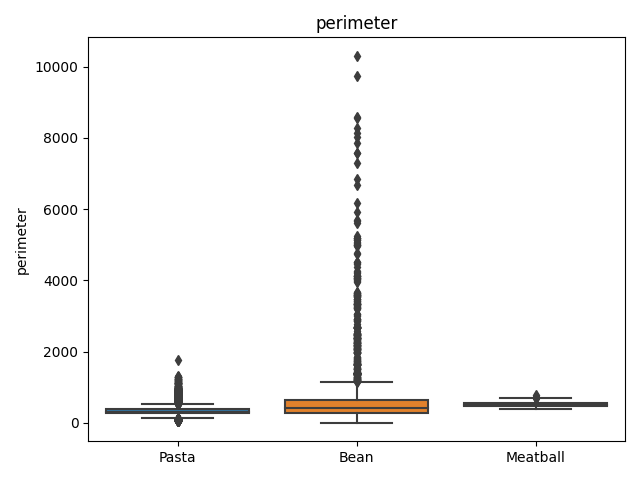
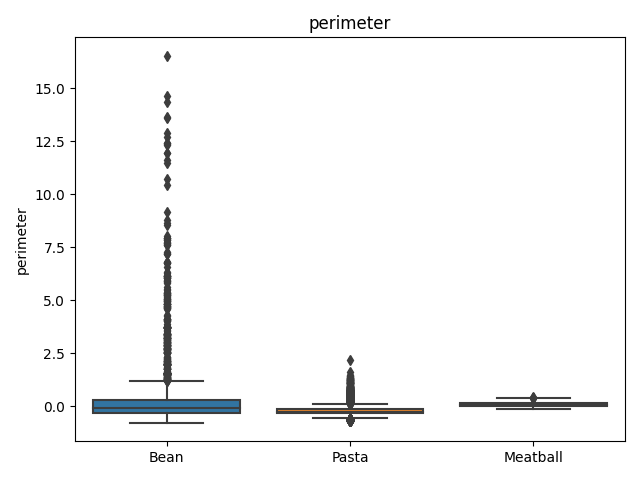
New feature diagrams

diff --git a/Machine_Learning/Feature_explore.py b/Machine_Learning/Feature_explore.py
@@ -21,10 +21,10 @@ if __name__ == "__main__":
     # partition the data into training and testing splits using 75% of
     # the data for training and the remaining 25% for testing
     (trainX, testX, trainY, testY) = train_test_split(foods.data, coded_labels,
-	test_size=0.25, stratify=foods.target)
+	test_size=0.20, stratify=foods.target)
 
-    # # Data preparation (note that a pipeline  would help here)
-    # trainX = StandardScaler().fit_transform(trainX)
+    # Data preparation (note that a pipeline  would help here)
+    trainX = StandardScaler().fit_transform(trainX)
 
     # show target distribution
     ax = sns.countplot(x=trainY, color="skyblue")
@@ -53,7 +53,7 @@ if __name__ == "__main__":
     a, b = 0, 1
     fig1 = plt.figure()
     ax1 = sns.scatterplot(trainX[:,a], trainX[:,b], hue=le.inverse_transform(trainY))
-    ax1.set_title("Example of feature scatter plot")
+    ax1.set_title("Scatter plot Area Perimeter")
     ax1.set_xlabel(foods.feature_names[a])
     ax1.set_ylabel(foods.feature_names[b])
     plt.tight_layout()
@@ -61,15 +61,59 @@ if __name__ == "__main__":
     plt.savefig('scatter_plot_area_perimeter.png')
 
     # show scatter plot of features a and b
-    a, b = 1, 2
+    a, b = 0, 2
     fig1 = plt.figure()
     ax1 = sns.scatterplot(trainX[:,a], trainX[:,b], hue=le.inverse_transform(trainY))
-    ax1.set_title("Example of feature scatter plot")
+    ax1.set_title("Scatter plot Area prominent_hue")
     ax1.set_xlabel(foods.feature_names[a])
     ax1.set_ylabel(foods.feature_names[b])
     plt.tight_layout()
     
-    plt.savefig('scatter_plot_perimeter_hue.png')
+    plt.savefig('scatter_plot_area_prominent_hue.png')
+
+    # show scatter plot of features a and b
+    a, b = 0, 3
+    fig1 = plt.figure()
+    ax1 = sns.scatterplot(trainX[:,a], trainX[:,b], hue=le.inverse_transform(trainY))
+    ax1.set_title("Scatter plot Area shape")
+    ax1.set_xlabel(foods.feature_names[a])
+    ax1.set_ylabel(foods.feature_names[b])
+    plt.tight_layout()
+    
+    plt.savefig('scatter_plot_area_shape.png')
+
+    # show scatter plot of features a and b
+    a, b = 1, 2
+    fig1 = plt.figure()
+    ax1 = sns.scatterplot(trainX[:,a], trainX[:,b], hue=le.inverse_transform(trainY))
+    ax1.set_title("Scatter plot Perimeter prominent_hue")
+    ax1.set_xlabel(foods.feature_names[a])
+    ax1.set_ylabel(foods.feature_names[b])
+    plt.tight_layout()
+    
+    plt.savefig('scatter_plot_perimeter_prominent_hue.png')
+
+    # show scatter plot of features a and b
+    a, b = 1, 3
+    fig1 = plt.figure()
+    ax1 = sns.scatterplot(trainX[:,a], trainX[:,b], hue=le.inverse_transform(trainY))
+    ax1.set_title("Scatter plot Perimeter shape")
+    ax1.set_xlabel(foods.feature_names[a])
+    ax1.set_ylabel(foods.feature_names[b])
+    plt.tight_layout()
+    
+    plt.savefig('scatter_plot_perimeter_shape.png')
+
+    # show scatter plot of features a and b
+    a, b = 2, 3
+    fig1 = plt.figure()
+    ax1 = sns.scatterplot(trainX[:,a], trainX[:,b], hue=le.inverse_transform(trainY))
+    ax1.set_title("Scatter plot Prominent_hue shape")
+    ax1.set_xlabel(foods.feature_names[a])
+    ax1.set_ylabel(foods.feature_names[b])
+    plt.tight_layout()
+    
+    plt.savefig('scatter_plot_prominent_hue_shape.png')
 
     # show boxplot for a single feature
     a = 1

diff --git a/Machine_Learning/performance_03.py b/Machine_Learning/performance_03.py
@@ -1,0 +1,70 @@
+import numpy as np
+import matplotlib.pyplot as plt
+from sklearn import datasets
+from sklearn.svm import SVC
+from sklearn.pipeline import Pipeline
+from sklearn.model_selection import train_test_split, ShuffleSplit, learning_curve
+from sklearn.preprocessing import StandardScaler
+from Fetch_data import fetch_data
+
+# # load a dataset, see https://scikit-learn.org/stable/datasets/index.html#datasets
+# digits = datasets.load_digits()
+
+
+data_path = 'C:/Users/Jurg Verhoeven/Documents/Cook3r/Testds'
+
+# Fetch the data
+foods = fetch_data(data_path)
+
+X = foods.data
+y = foods.target
+
+# Sample a training set while holding out 40% of the data for testing (evaluating) our classifier
+X_train, X_test, y_train, y_test = train_test_split(
+    foods.data, foods.target, test_size=0.4, random_state=0)
+
+# instantiate a classifier estimator
+clf = Pipeline([
+    ("scaler", StandardScaler()),
+    ("svm_clf", SVC(kernel="poly", degree=3, coef0=1, C=5))
+    ])
+
+# Propose cross-validation indices in the data set
+cv = ShuffleSplit(n_splits=100, test_size=0.2, random_state=0)
+
+# Compute learning curves
+train_sizes=np.linspace(.1, 1.0, 10)
+train_sizes, train_scores, test_scores = \
+    learning_curve(clf, X_train, y_train, cv=cv, n_jobs=-1,
+                   train_sizes=train_sizes)
+
+train_scores_mean = np.mean(train_scores, axis=1)
+train_scores_std = np.std(train_scores, axis=1)
+test_scores_mean = np.mean(test_scores, axis=1)
+test_scores_std = np.std(test_scores, axis=1)
+
+
+
+# Plot learning curves
+fig, ax = plt.subplots(1, 1)
+ax.grid()
+ax.fill_between(train_sizes, train_scores_mean - train_scores_std,
+                     train_scores_mean + train_scores_std, alpha=0.1,
+                     color="r")
+ax.fill_between(train_sizes, test_scores_mean - test_scores_std,
+                     test_scores_mean + test_scores_std, alpha=0.1,
+                     color="g")
+ax.plot(train_sizes, train_scores_mean, 'o-', color="r",
+             label="Training score")
+ax.plot(train_sizes, test_scores_mean, 'o-', color="g",
+             label="Cross-validation score")
+ax.set_title('Learning Curves for SVM, poly kernel, degree = 3')
+ax.set_xlabel('training set size')
+ax.set_ylabel('RMSE')
+ax.legend(['train', 'val'],loc='lower right')
+
+plt.show(block=True)
+
+
+
+

diff --git a/Machine_Learning/performance_02.py b/Machine_Learning/performance_02.py
@@ -15,7 +15,7 @@ foods = fetch_data(data_path)
 
 # Sample a training set while holding out 40% of the data for testing (evaluating) our classifier
 X_train, X_test, y_train, y_test = train_test_split(
-    foods.data, foods.target, test_size=0.4, random_state=0)
+    foods.data, foods.target, test_size=0.2, random_state=0)
 
 # instantiate a classifier estimator
 clf = Pipeline([
